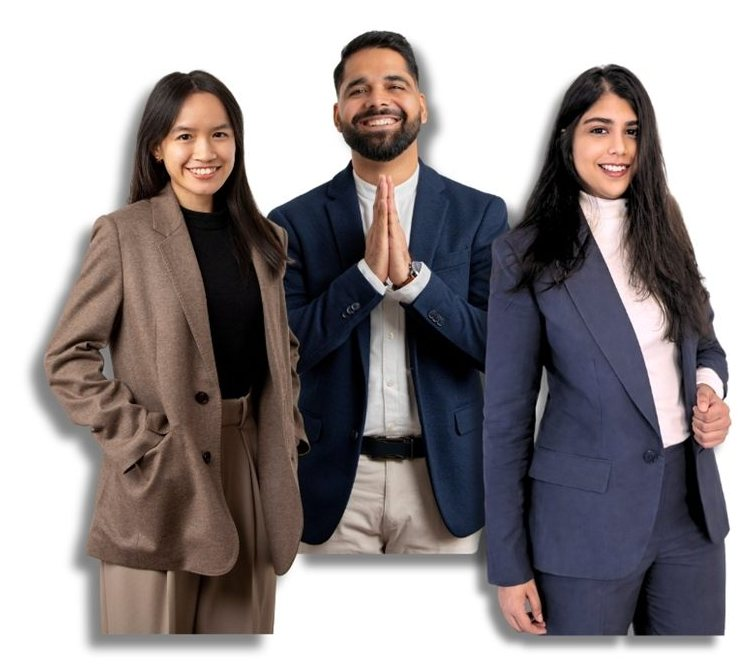
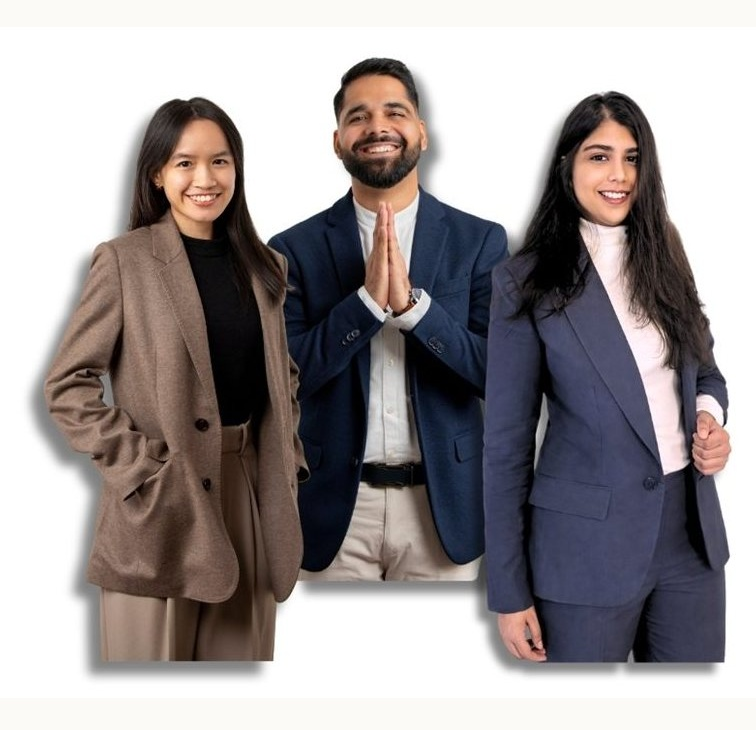
Remove stray motif dot, align team photos, swap map to OpenFreeMap, add foundation-blocks illustration, remove departed team member
- Logo motif: removed one malformed merged-blob dot (r=20px vs the normal
  ~2-9px range) that stood alone in the middle of the crescent -- a
  detection artifact, not a real dot in the logo.
- Team department photos (How We Work): the 5 source photos are Canva
  composites with no consistent framing, so the same CSS crop cut everyone's
  feet at a different height. Padded team-adhoc/asia/operations' canvas
  (top+bottom, matching team-series' proportions -- the one photo that was
  already right) so all 5 now land on the same line. Did not attempt to fix
  Asia's head-height gap between the man and the two women -- that's a
  within-image per-person scale difference, and this session already found
  once that pixel-shifting a flattened composite like that produces visible
  JPEG artifacts; fixing it for real needs the original layered Canva file.
- Hotel network map: swapped CARTO's raster tile layer for OpenFreeMap's
  "Positron" vector style (same light-grey look, free, no key/quota to
  manage) via the official maplibre-gl-leaflet binding, since OpenFreeMap
  only serves vector tiles. Wrapped in try/catch so a tile-layer failure
  (CDN hiccup, ad blocker) can't take the coverage dots down with it --
  verified 104 dots still render even when the base layer fails.
- For Hotels: replaced the stock hotel-facade photo with an original
  animated illustration -- 27 individual 3D cubes (real CSS geometry, not
[…]

diff --git a/es/para-hoteles.html b/es/para-hoteles.html
@@ -107,7 +107,48 @@
         <li>Cobertura todo el año, no solo en temporada alta</li>
       </ul>
     </div>
-    <div class="hero-split-photo"><img src="/assets/img/photos/hotel-facade.jpg" alt="Entrada de hotel europeo" data-cms="s2_photo" data-cms-src /></div>
+    <div class="foundation-scene" aria-hidden="true">
+      <div class="block-column">
+        <div class="block-cube" style="--cd:0.0s; --c:#0b3d5c;"><div class="cube-inner"><div class="bf bf-front"></div><div class="bf bf-right"></div><div class="bf bf-top"></div></div></div>
+        <div class="block-cube" style="--cd:0.08s; --c:#0b3d5c;"><div class="cube-inner"><div class="bf bf-front"></div><div class="bf bf-right"></div><div class="bf bf-top"></div></div></div>
+        <div class="block-cube" style="--cd:0.16s; --c:#a68a2e;"><div class="cube-inner"><div class="bf bf-front"></div><div class="bf bf-right"></div><div class="bf bf-top"></div></div></div>
+      </div>
+      <div class="block-column">
+        <div class="block-cube" style="--cd:0.07s; --c:#0b3d5c;"><div class="cube-inner"><div class="bf bf-front"></div><div class="bf bf-right"></div><div class="bf bf-top"></div></div></div>
+        <div class="block-cube" style="--cd:0.15s; --c:#0b3d5c;"><div class="cube-inner"><div class="bf bf-front"></div><div class="bf bf-right"></div><div class="bf bf-top"></div></div></div>
+        <div class="block-cube" style="--cd:0.23s; --c:#a68a2e;"><div class="cube-inner"><div class="bf bf-front"></div><div class="bf bf-right"></div><div class="bf bf-top"></div></div></div>
+        <div class="block-cube" style="--cd:0.31s; --c:#a68a2e;"><div class="cube-inner"><div class="bf bf-front"></div><div class="bf bf-right"></div><div class="bf bf-top"></div></div></div>
+        <div class="block-cube" style="--cd:0.39s; --c:#b5652f;"><div class="cube-inner"><div class="bf bf-front"></div><div class="bf bf-right"></div><div class="bf bf-top"></div></div></div>
+      </div>
+      <div class="block-column">
+        <div class="block-cube" style="--cd:0.14s; --c:#0b3d5c;"><div class="cube-inner"><div class="bf bf-front"></div><div class="bf bf-right"></div><div class="bf bf-top"></div></div></div>
+        <div class="block-cube" style="--cd:0.22s; --c:#0b3d5c;"><div class="cube-inner"><div class="bf bf-front"></div><div class="bf bf-right"></div><div class="bf bf-top"></div></div></div>
+        <div class="block-cube" style="--cd:0.3s; --c:#a68a2e;"><div class="cube-inner"><div class="bf bf-front"></div><div class="bf bf-right"></div><div class="bf bf-top"></div></div></div>
+        <div class="block-cube" style="--cd:0.38s; --c:#a68a2e;"><div class="cube-inner"><div class="bf bf-front"></div><div class="bf bf-right"></div><div class="bf bf-top"></div></div></div>
+      </div>
+      <div class="block-column">
+        <div class="block-cube" style="--cd:0.21s; --c:#0b3d5c;"><div class="cube-inner"><div class="bf bf-front"></div><div class="bf bf-right"></div><div class="bf bf-top"></div></div></div>
+        <div class="block-cube" style="--cd:0.29s; --c:#0b3d5c;"><div class="cube-inner"><div class="bf bf-front"></div><div class="bf bf-right"></div><div class="bf bf-top"></div></div></div>
+        <div class="block-cube" style="--cd:0.37s; --c:#a68a2e;"><div class="cube-inner"><div class="bf bf-front"></div><div class="bf bf-right"></div><div class="bf bf-top"></div></div></div>
+        <div class="block-cube" style="--cd:0.45s; --c:#a68a2e;"><div class="cube-inner"><div class="bf bf-front"></div><div class="bf bf-right"></div><div class="bf bf-top"></div></div></div>
+        <div class="block-cube" style="--cd:0.53s; --c:#b5652f;"><div class="cube-inner"><div class="bf bf-front"></div><div class="bf bf-right"></div><div class="bf bf-top"></div></div></div>
+        <div class="block-cube" style="--cd:0.61s; --c:#b5652f;"><div class="cube-inner"><div class="bf bf-front"></div><div class="bf bf-right"></div><div class="bf bf-top"></div></div></div>
+        <div class="block-cube" style="--cd:0.69s; --c:#b5652f;"><div class="cube-inner"><div class="bf bf-front"></div><div class="bf bf-right"></div><div class="bf bf-top"></div></div></div>
+      </div>
+      <div class="block-column">
+        <div class="block-cube" style="--cd:0.28s; --c:#0b3d5c;"><div class="cube-inner"><div class="bf bf-front"></div><div class="bf bf-right"></div><div class="bf bf-top"></div></div></div>
+        <div class="block-cube" style="--cd:0.36s; --c:#0b3d5c;"><div class="cube-inner"><div class="bf bf-front"></div><div class="bf bf-right"></div><div class="bf bf-top"></div></div></div>
+        <div class="block-cube" style="--cd:0.44s; --c:#a68a2e;"><div class="cube-inner"><div class="bf bf-front"></div><div class="bf bf-right"></div><div class="bf bf-top"></div></div></div>
+        <div class="block-cube" style="--cd:0.52s; --c:#a68a2e;"><div class="cube-inner"><div class="bf bf-front"></div><div class="bf bf-right"></div><div class="bf bf-top"></div></div></div>
+        <div class="block-cube" style="--cd:0.6s; --c:#b5652f;"><div class="cube-inner"><div class="bf bf-front"></div><div class="bf bf-right"></div><div class="bf bf-top"></div></div></div>
+      </div>
+      <div class="block-column">
+        <div class="block-cube" style="--cd:0.35s; --c:#0b3d5c;"><div class="cube-inner"><div class="bf bf-front"></div><div class="bf bf-right"></div><div class="bf bf-top"></div></div></div>
+        <div class="block-cube" style="--cd:0.43s; --c:#0b3d5c;"><div class="cube-inner"><div class="bf bf-front"></div><div class="bf bf-right"></div><div class="bf bf-top"></div></div></div>
+        <div class="block-cube" style="--cd:0.51s; --c:#a68a2e;"><div class="cube-inner"><div class="bf bf-front"></div><div class="bf bf-right"></div><div class="bf bf-top"></div></div></div>
+      </div>
+      <p class="foundation-caption">Cada relación, construida para durar</p>
+    </div>
   </div>
 </section>
 

diff --git a/for-hotels.html b/for-hotels.html
@@ -107,7 +107,48 @@
         <li>All-year coverage, not just peak season</li>
       </ul>
     </div>
-    <div class="hero-split-photo"><img src="/assets/img/photos/hotel-facade.jpg" alt="European hotel entrance" data-cms="s2_photo" data-cms-src /></div>
+    <div class="foundation-scene" aria-hidden="true">
+      <div class="block-column">
+        <div class="block-cube" style="--cd:0.0s; --c:#0b3d5c;"><div class="cube-inner"><div class="bf bf-front"></div><div class="bf bf-right"></div><div class="bf bf-top"></div></div></div>
+        <div class="block-cube" style="--cd:0.08s; --c:#0b3d5c;"><div class="cube-inner"><div class="bf bf-front"></div><div class="bf bf-right"></div><div class="bf bf-top"></div></div></div>
+        <div class="block-cube" style="--cd:0.16s; --c:#a68a2e;"><div class="cube-inner"><div class="bf bf-front"></div><div class="bf bf-right"></div><div class="bf bf-top"></div></div></div>
+      </div>
+      <div class="block-column">
+        <div class="block-cube" style="--cd:0.07s; --c:#0b3d5c;"><div class="cube-inner"><div class="bf bf-front"></div><div class="bf bf-right"></div><div class="bf bf-top"></div></div></div>
+        <div class="block-cube" style="--cd:0.15s; --c:#0b3d5c;"><div class="cube-inner"><div class="bf bf-front"></div><div class="bf bf-right"></div><div class="bf bf-top"></div></div></div>
+        <div class="block-cube" style="--cd:0.23s; --c:#a68a2e;"><div class="cube-inner"><div class="bf bf-front"></div><div class="bf bf-right"></div><div class="bf bf-top"></div></div></div>
+        <div class="block-cube" style="--cd:0.31s; --c:#a68a2e;"><div class="cube-inner"><div class="bf bf-front"></div><div class="bf bf-right"></div><div class="bf bf-top"></div></div></div>
+        <div class="block-cube" style="--cd:0.39s; --c:#b5652f;"><div class="cube-inner"><div class="bf bf-front"></div><div class="bf bf-right"></div><div class="bf bf-top"></div></div></div>
+      </div>
+      <div class="block-column">
+        <div class="block-cube" style="--cd:0.14s; --c:#0b3d5c;"><div class="cube-inner"><div class="bf bf-front"></div><div class="bf bf-right"></div><div class="bf bf-top"></div></div></div>
+        <div class="block-cube" style="--cd:0.22s; --c:#0b3d5c;"><div class="cube-inner"><div class="bf bf-front"></div><div class="bf bf-right"></div><div class="bf bf-top"></div></div></div>
+        <div class="block-cube" style="--cd:0.3s; --c:#a68a2e;"><div class="cube-inner"><div class="bf bf-front"></div><div class="bf bf-right"></div><div class="bf bf-top"></div></div></div>
+        <div class="block-cube" style="--cd:0.38s; --c:#a68a2e;"><div class="cube-inner"><div class="bf bf-front"></div><div class="bf bf-right"></div><div class="bf bf-top"></div></div></div>
+      </div>
+      <div class="block-column">
+        <div class="block-cube" style="--cd:0.21s; --c:#0b3d5c;"><div class="cube-inner"><div class="bf bf-front"></div><div class="bf bf-right"></div><div class="bf bf-top"></div></div></div>
+        <div class="block-cube" style="--cd:0.29s; --c:#0b3d5c;"><div class="cube-inner"><div class="bf bf-front"></div><div class="bf bf-right"></div><div class="bf bf-top"></div></div></div>
+        <div class="block-cube" style="--cd:0.37s; --c:#a68a2e;"><div class="cube-inner"><div class="bf bf-front"></div><div class="bf bf-right"></div><div class="bf bf-top"></div></div></div>
+        <div class="block-cube" style="--cd:0.45s; --c:#a68a2e;"><div class="cube-inner"><div class="bf bf-front"></div><div class="bf bf-right"></div><div class="bf bf-top"></div></div></div>
+        <div class="block-cube" style="--cd:0.53s; --c:#b5652f;"><div class="cube-inner"><div class="bf bf-front"></div><div class="bf bf-right"></div><div class="bf bf-top"></div></div></div>
+        <div class="block-cube" style="--cd:0.61s; --c:#b5652f;"><div class="cube-inner"><div class="bf bf-front"></div><div class="bf bf-right"></div><div class="bf bf-top"></div></div></div>
+        <div class="block-cube" style="--cd:0.69s; --c:#b5652f;"><div class="cube-inner"><div class="bf bf-front"></div><div class="bf bf-right"></div><div class="bf bf-top"></div></div></div>
+      </div>
+      <div class="block-column">
+        <div class="block-cube" style="--cd:0.28s; --c:#0b3d5c;"><div class="cube-inner"><div class="bf bf-front"></div><div class="bf bf-right"></div><div class="bf bf-top"></div></div></div>
+        <div class="block-cube" style="--cd:0.36s; --c:#0b3d5c;"><div class="cube-inner"><div class="bf bf-front"></div><div class="bf bf-right"></div><div class="bf bf-top"></div></div></div>
+        <div class="block-cube" style="--cd:0.44s; --c:#a68a2e;"><div class="cube-inner"><div class="bf bf-front"></div><div class="bf bf-right"></div><div class="bf bf-top"></div></div></div>
+        <div class="block-cube" style="--cd:0.52s; --c:#a68a2e;"><div class="cube-inner"><div class="bf bf-front"></div><div class="bf bf-right"></div><div class="bf bf-top"></div></div></div>
+        <div class="block-cube" style="--cd:0.6s; --c:#b5652f;"><div class="cube-inner"><div class="bf bf-front"></div><div class="bf bf-right"></div><div class="bf bf-top"></div></div></div>
+      </div>
+      <div class="block-column">
+        <div class="block-cube" style="--cd:0.35s; --c:#0b3d5c;"><div class="cube-inner"><div class="bf bf-front"></div><div class="bf bf-right"></div><div class="bf bf-top"></div></div></div>
+        <div class="block-cube" style="--cd:0.43s; --c:#0b3d5c;"><div class="cube-inner"><div class="bf bf-front"></div><div class="bf bf-right"></div><div class="bf bf-top"></div></div></div>
+        <div class="block-cube" style="--cd:0.51s; --c:#a68a2e;"><div class="cube-inner"><div class="bf bf-front"></div><div class="bf bf-right"></div><div class="bf bf-top"></div></div></div>
+      </div>
+      <p class="foundation-caption">Every relationship, built to last</p>
+    </div>
   </div>
 </section>
 

diff --git a/assets/css/style.css b/assets/css/style.css
@@ -149,6 +149,38 @@ p { margin: 0 0 16px; color: var(--ink-soft); }
   .hero-split { grid-template-columns: 1fr; }
   .hero-split-photo { order: -1; aspect-ratio: 16/9; }
 }
+
+/* Foundation blocks: a stack of real 3D cubes replacing a stock photo for
+   "Groups build your foundation" -- each column drops in from bottom to top,
+   left to right, once, when scrolled into view. */
+.foundation-scene {
+  --cs: 46px;
+  aspect-ratio: 4/3; border-radius: var(--radius-lg); background: var(--brand-tint);
+  display: flex; align-items: flex-end; justify-content: center; gap: 16px;
+  padding: 34px 24px 46px;
+}
+.block-column { display: flex; flex-direction: column-reverse; gap: 5px; }
+.block-cube {
+  position: relative; width: var(--cs); height: var(--cs); perspective: 320px;
+  opacity: 0; transform: translateY(-36px);
+  transition: opacity 0.5s ease, transform 0.6s cubic-bezier(0.34, 1.56, 0.64, 1);
+  transition-delay: var(--cd, 0s);
+}
+.foundation-scene.in-view .block-cube { opacity: 1; transform: translateY(0); }
+.cube-inner { position: relative; width: 100%; height: 100%; transform-style: preserve-3d; transform: rotateX(-25deg) rotateY(-38deg); }
+.cube-inner .bf { position: absolute; inset: 0; background: var(--c, var(--brand)); }
+.cube-inner .bf-front { transform: translateZ(calc(var(--cs) / 2)); }
+.cube-inner .bf-right { filter: brightness(0.7); transform: rotateY(90deg) translateZ(calc(var(--cs) / 2)); }
+.cube-inner .bf-top { filter: brightness(1.3); transform: rotateX(90deg) translateZ(calc(var(--cs) / 2)); }
+@media (max-width: 520px) {
+  .foundation-scene { --cs: 34px; gap: 10px; padding: 26px 16px 36px; }
+}
+.foundation-caption { position: absolute; bottom: 14px; left: 0; right: 0; text-align: center; font-family: var(--font-mono); font-size: 0.68rem; letter-spacing: 0.08em; text-transform: uppercase; color: var(--ink-soft); opacity: 0; transition: opacity 0.6s ease 1.1s; }
+.foundation-scene.in-view .foundation-caption { opacity: 1; }
+@media (prefers-reduced-motion: reduce) {
+  .block-cube { opacity: 1; transform: translateY(0); transition: none; }
+  .foundation-caption { opacity: 1; transition: none; }
+}
 .hero.hero-dark { background: radial-gradient(120% 140% at 10% 0%, var(--brand-dark) 0%, var(--ink) 70%); color: #fff; }
 .hero.hero-dark p, .hero.hero-dark .lede { color: rgba(255,255,255,0.78); }
 

diff --git a/assets/js/map.js b/assets/js/map.js
@@ -34,9 +34,20 @@ document.addEventListener("DOMContentLoaded", async () => {
   const { cities } = await cityRes.json();
 
   const map = L.map(el, { scrollWheelZoom: false, minZoom: 3, maxZoom: 17 }).setView([50, 10], 4);
-  L.tileLayer("https://{s}.basemaps.cartocdn.com/rastertiles/voyager/{z}/{x}/{y}{r}.png", {
-    attribution: "© OpenStreetMap, © CARTO",
-  }).addTo(map);
+  // OpenFreeMap only serves vector tiles (no plain raster XYZ endpoint), so the
+  // base layer goes through MapLibre GL via the leaflet binding rather than a
+  // plain L.tileLayer -- same "Positron" light-grey look as the old CARTO
+  // layer, but free/unlimited and with no API key to manage. Wrapped so a CDN
+  // hiccup (blocked script, offline) loses the background tiles, not the
+  // coverage dots -- those are the actual content.
+  try {
+    L.maplibreGL({
+      style: "https://tiles.openfreemap.org/styles/positron",
+      attribution: "© OpenFreeMap, © OpenMapTiles, © OpenStreetMap contributors",
+    }).addTo(map);
+  } catch (err) {
+    console.error("Base map tiles failed to load:", err);
+  }
 
   cities.forEach((city) => {
     const color = COUNTRY_COLORS[city.country] || DEFAULT_DOT_COLOR;

diff --git a/es/red-hotelera.html b/es/red-hotelera.html
@@ -30,6 +30,7 @@
 <link rel="preconnect" href="https://fonts.googleapis.com" />
 <link href="https://fonts.googleapis.com/css2?family=Fraunces:SOFT,WONK,opsz,wght@0,0,9..144,300..700&family=Inter:wght@400;500;600;700;800&family=IBM+Plex+Mono:wght@400;500;600;700&display=swap" rel="stylesheet" />
 <link rel="stylesheet" href="https://unpkg.com/leaflet@1.9.4/dist/leaflet.css" />
+<link rel="stylesheet" href="https://unpkg.com/maplibre-gl@6.6.0/dist/maplibre-gl.css" />
 <link rel="stylesheet" href="/assets/css/style.css" />
 <script type="application/ld+json">
 {
@@ -119,6 +120,8 @@
 <script src="/assets/js/content-loader.js"></script>
 <script src="/assets/js/main.js"></script>
 <script src="https://unpkg.com/leaflet@1.9.4/dist/leaflet.js"></script>
+<script src="https://unpkg.com/maplibre-gl@6.6.0/dist/maplibre-gl.js"></script>
+<script src="https://unpkg.com/@maplibre/maplibre-gl-leaflet@0.1.4/leaflet-maplibre-gl.js"></script>
 <script src="/assets/js/map.js"></script>
 </body>
 </html>

diff --git a/hotel-network.html b/hotel-network.html
@@ -30,6 +30,7 @@
 <link rel="preconnect" href="https://fonts.googleapis.com" />
 <link href="https://fonts.googleapis.com/css2?family=Fraunces:SOFT,WONK,opsz,wght@0,0,9..144,300..700&family=Inter:wght@400;500;600;700;800&family=IBM+Plex+Mono:wght@400;500;600;700&display=swap" rel="stylesheet" />
 <link rel="stylesheet" href="https://unpkg.com/leaflet@1.9.4/dist/leaflet.css" />
+<link rel="stylesheet" href="https://unpkg.com/maplibre-gl@6.6.0/dist/maplibre-gl.css" />
 <link rel="stylesheet" href="/assets/css/style.css" />
 <script type="application/ld+json">
 {
@@ -119,6 +120,8 @@
 <script src="/assets/js/content-loader.js"></script>
 <script src="/assets/js/main.js"></script>
 <script src="https://unpkg.com/leaflet@1.9.4/dist/leaflet.js"></script>
+<script src="https://unpkg.com/maplibre-gl@6.6.0/dist/maplibre-gl.js"></script>
+<script src="https://unpkg.com/@maplibre/maplibre-gl-leaflet@0.1.4/leaflet-maplibre-gl.js"></script>
 <script src="/assets/js/map.js"></script>
 </body>
 </html>

diff --git a/assets/js/scroll-reveal.js b/assets/js/scroll-reveal.js
@@ -23,4 +23,22 @@
     { threshold: 0.12, rootMargin: "0px 0px -60px 0px" }
   );
   sections.forEach(function (s) { observer.observe(s); });
+
+  // Foundation-blocks illustration (For Hotels): same one-shot reveal, its own
+  // observer since it isn't a <section> and fires independently of the above.
+  var scenes = document.querySelectorAll(".foundation-scene");
+  if (scenes.length) {
+    var sceneObserver = new IntersectionObserver(
+      function (entries) {
+        entries.forEach(function (entry) {
+          if (entry.isIntersecting) {
+            entry.target.classList.add("in-view");
+            sceneObserver.unobserve(entry.target);
+          }
+        });
+      },
+      { threshold: 0.3 }
+    );
+    scenes.forEach(function (s) { sceneObserver.observe(s); });
+  }
 })();
